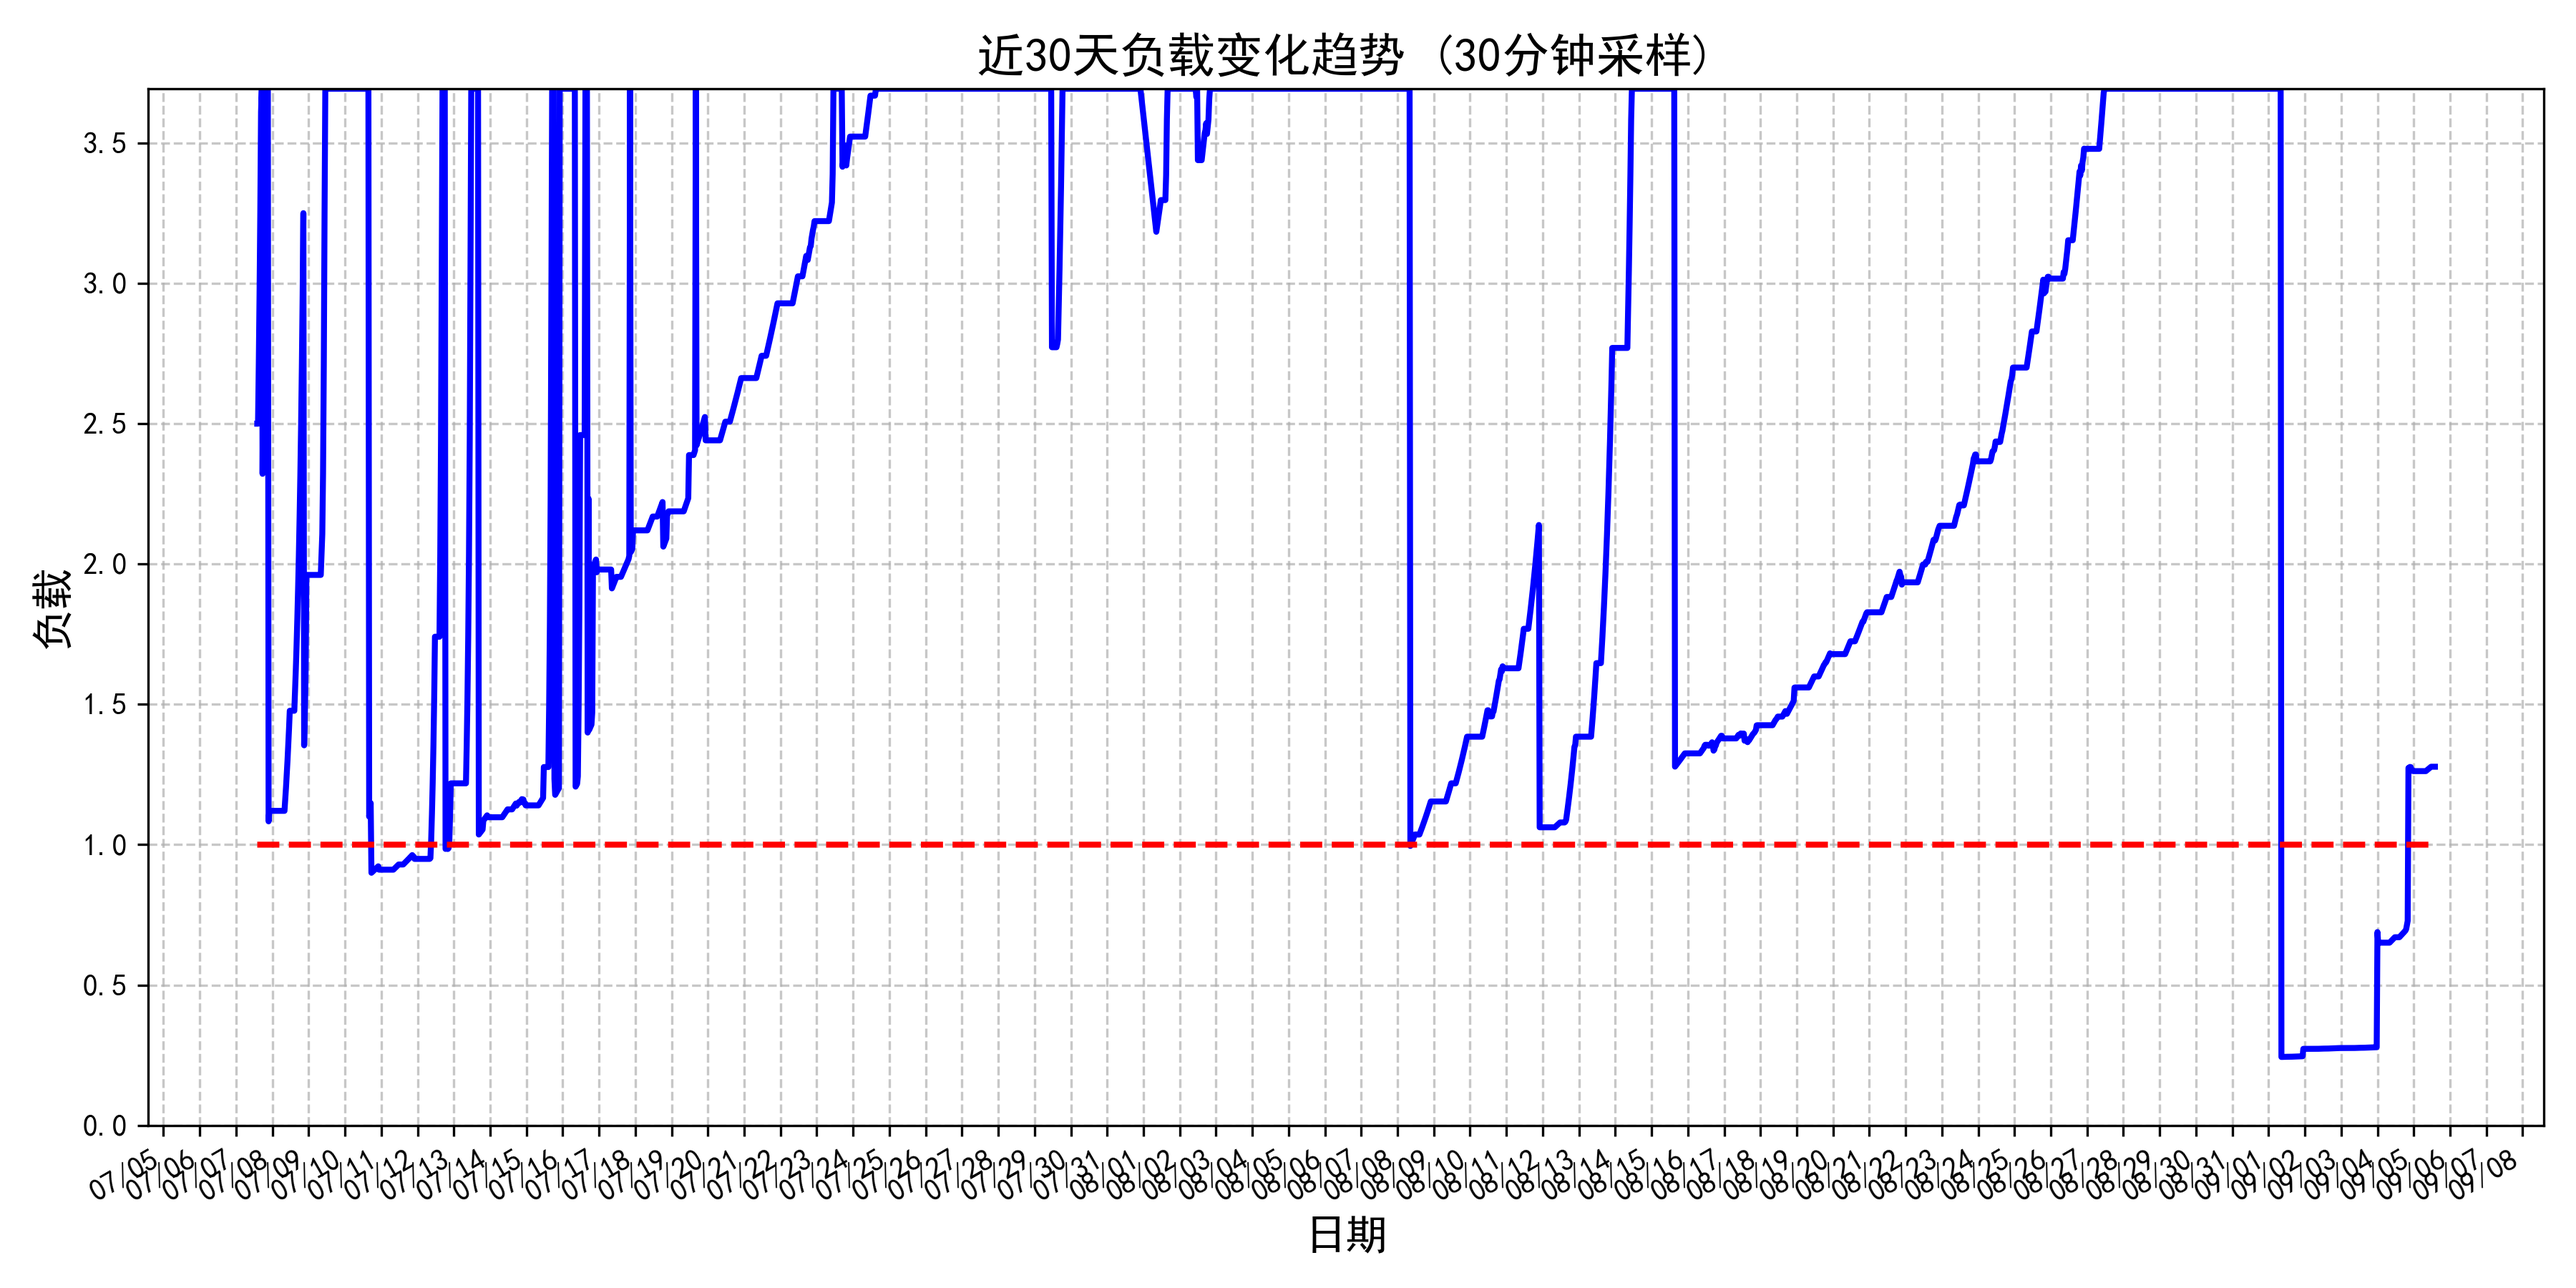
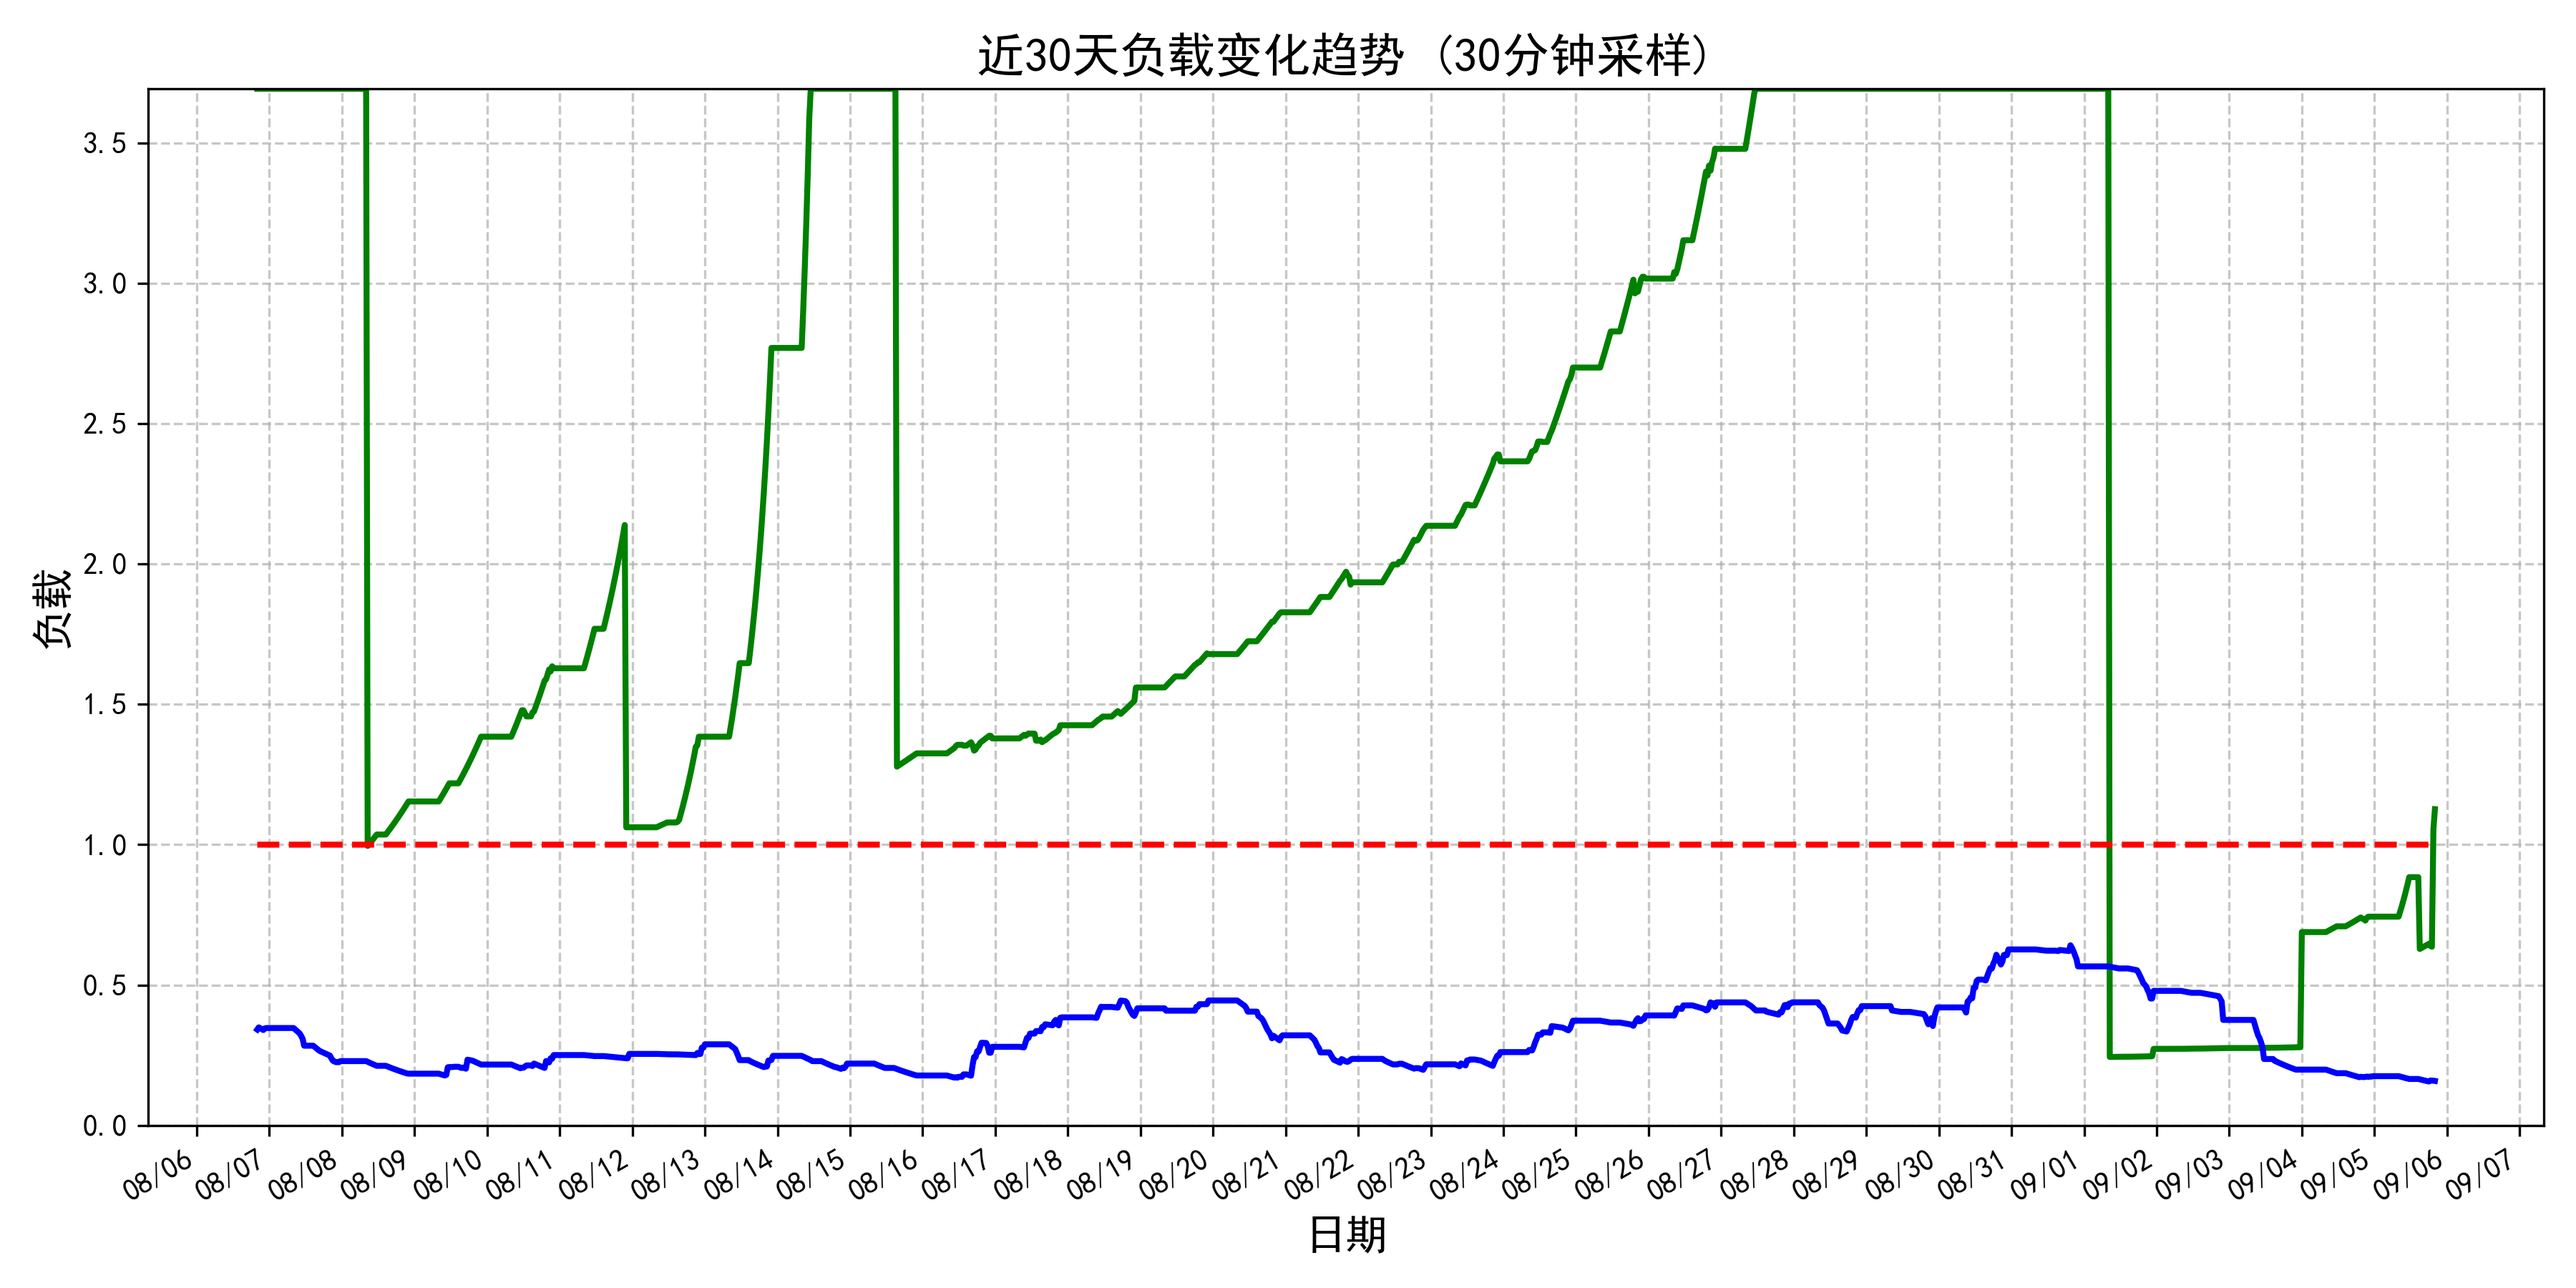
新的自刷新查看器，以及统计相关问题

diff --git a/blueberry/graph_point.py b/blueberry/graph_point.py
@@ -10,13 +10,13 @@ from .collect import collect_state
 from .statistic import statistic
 
 # 设置中文字体
-plt.rcParams["font.family"] = ["SimHei", "WenQuanYi Micro Hei", "Heiti TC"]
+plt.rcParams["font.family"] = ["SimHei"]
 plt.rcParams["axes.unicode_minus"] = False  # 解决负号显示问题
 
 
 def get_goldie_points_loads_history(
     days: int = 30, data_file: str = "data.xlsx"
-) -> List[Tuple[datetime, int, float]]:
+) -> List[Tuple[datetime, int, float, float]]:
     """
     获取近 days 天的 Goldie 点数历史数据，采样精度为30分钟每次
 
@@ -44,7 +44,14 @@ def get_goldie_points_loads_history(
         state = collect_state(data, current_time)
         try:
             stats = statistic(state, current_time)
-            history.append((current_time, stats.Goldie点数, stats.负载))
+            history.append(
+                (
+                    current_time,
+                    stats.Goldie点数,
+                    stats.负载,
+                    stats.总每日平均用时 / 推荐用时,
+                )
+            )
         except Exception as e:
             print(f"{current_time}: {e}")
             traceback.print_exc()
@@ -91,17 +98,18 @@ def plot_goldie_points(history: List[Tuple[datetime, int]]) -> None:
     plt.savefig("goldie_points_trend.png", dpi=300)
 
 
-def plot_loads(history: List[Tuple[datetime, float]]) -> None:
+def plot_loads(history: List[Tuple[datetime, float, float]]) -> None:
     """
     绘制负载变化折线图
 
     Args:
         history: 包含 (日期, 负载) 的列表
     """
-    dates, loads = zip(*history)
+    dates, loads, outs = zip(*history)
 
     plt.figure(figsize=(12, 6))
-    plt.plot(dates, loads, linestyle="-", color="blue", linewidth=2)
+    plt.plot(dates, loads, linestyle="-", color="green", linewidth=2)
+    plt.plot(dates, outs, linestyle="-", color="blue", linewidth=2)
     plt.plot(dates, [1 for x in loads], linestyle="--", color="red", linewidth=2)
 
     # 设置标题和坐标轴标签
@@ -130,7 +138,7 @@ def main() -> None:
     print("正在生成近30天 Goldie 点数变化折线图 (30分钟采样)...")
     history = get_goldie_points_loads_history(30, "记录.xlsx")
     plot_goldie_points([(x[0], x[1]) for x in history])
-    plot_loads([(x[0], x[2]) for x in history])
+    plot_loads([(x[0], x[2], x[3]) for x in history])
 
 
 if __name__ == "__main__":
